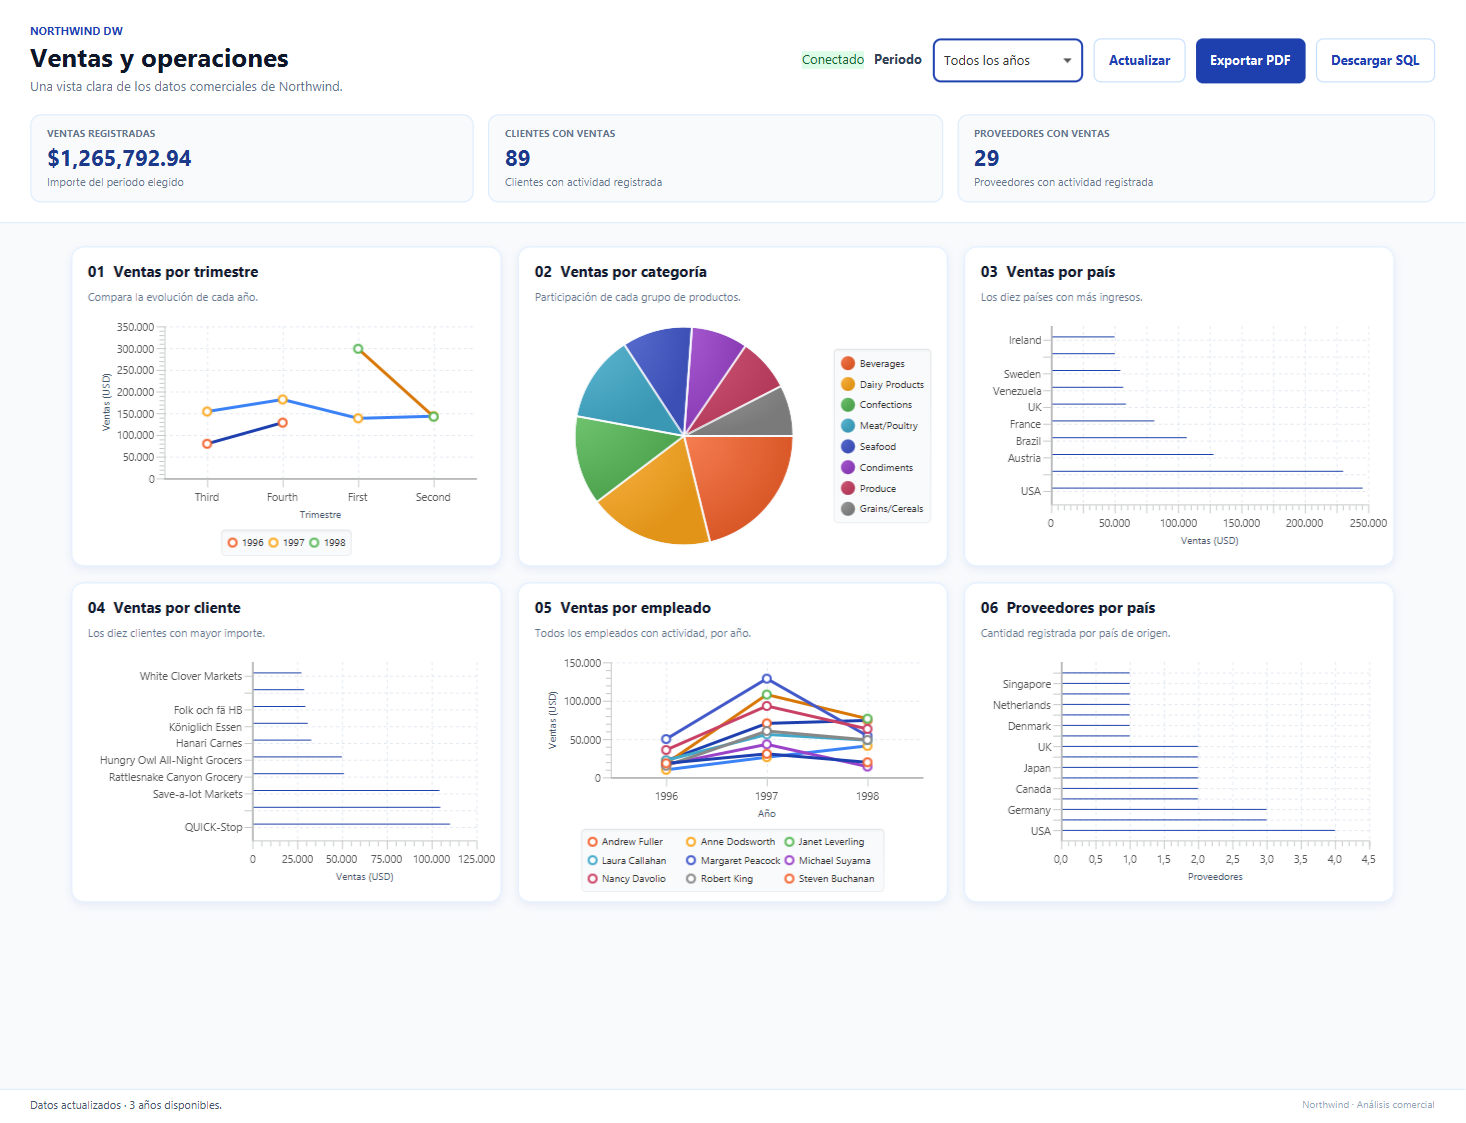
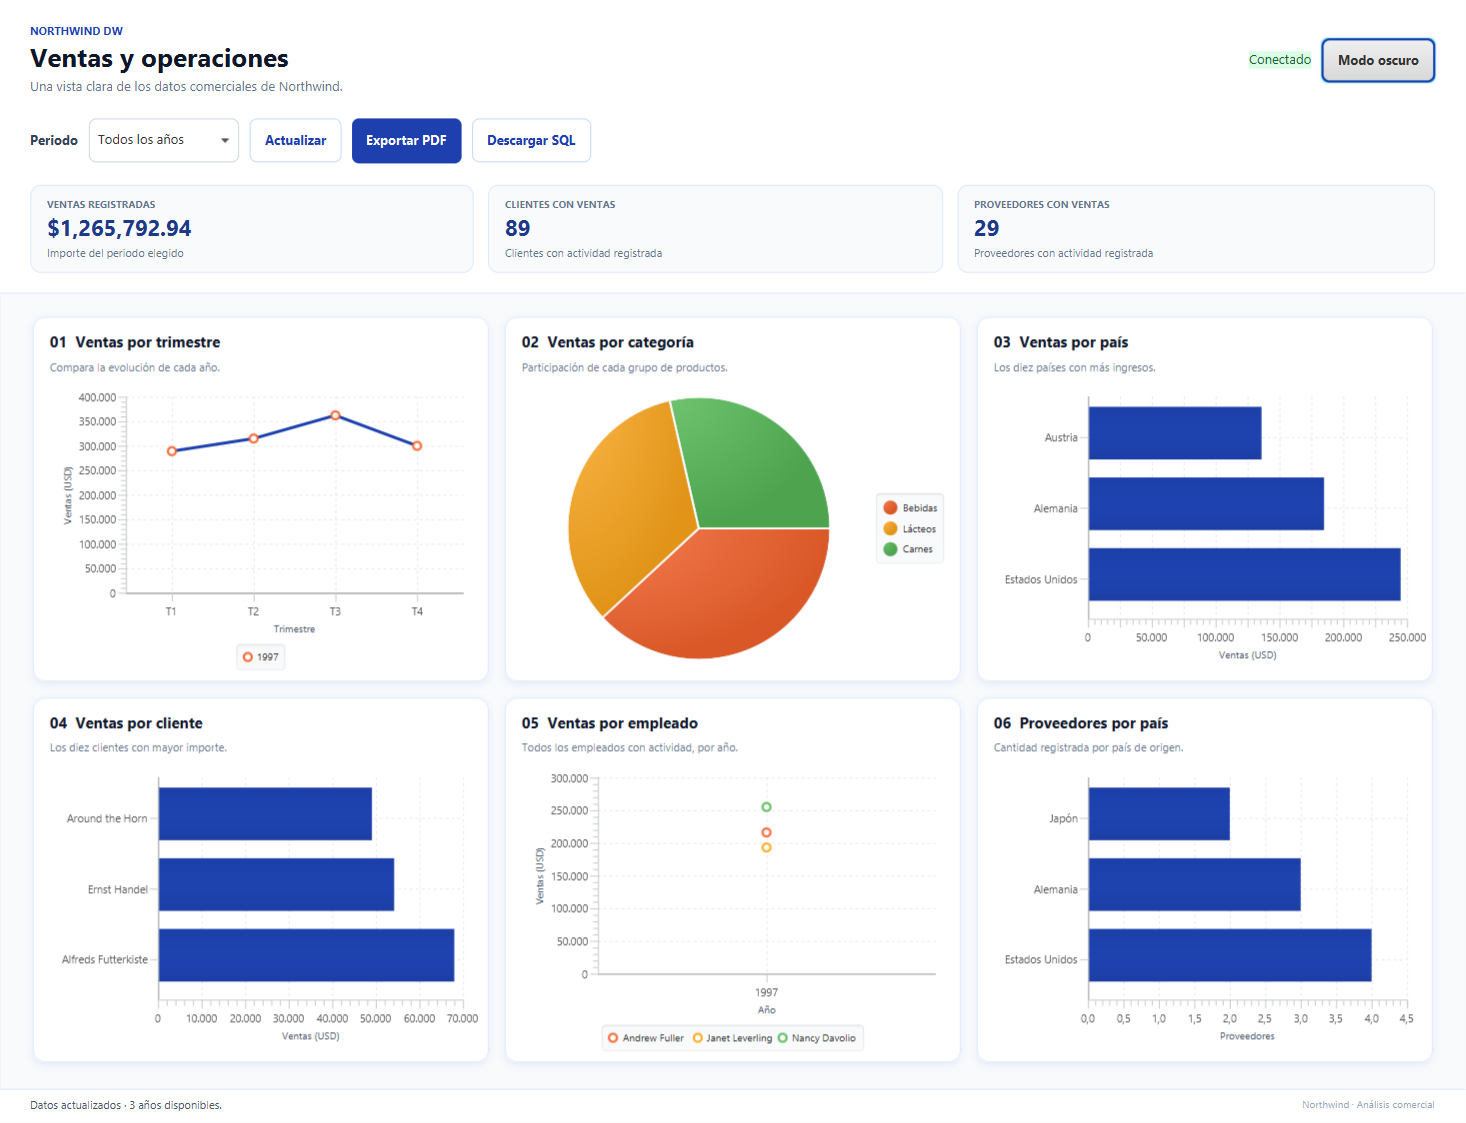
docs: show dashboard themes and responsive behavior

diff --git a/docs/superpowers/plans/2026-10-24-dashboard-themes-responsive.md b/docs/superpowers/plans/2026-10-24-dashboard-themes-responsive.md
@@ -41,7 +41,7 @@
 - [x] Write tests for default/invalid theme fallback, persistence, and toggling; run them to confirm RED.
 - [x] Write tests for 3, 2, and 1-column breakpoints and proportional chart height; run them to confirm RED.
 - [x] Implement the helpers with dark as the first-run theme and deterministic breakpoints; run both focused test classes to confirm GREEN.
-- [ ] Commit as `feat: add theme preferences and responsive layout rules`.
+- [x] Commit as `feat: add theme preferences and responsive layout rules`.
 
 ### Task 2: Apply themes to the dashboard
 
@@ -54,7 +54,7 @@
 - [x] Preserve the selection in local preferences when the user changes it.
 - [x] Match original indigo colors in dark mode and keep the light palette coherent; style chart plots, axes, legends, fields, focus, and hover states.
 - [x] Reflow header controls without changing their actions; load FXML successfully.
-- [ ] Commit as `feat: add light and dark dashboard themes`.
+- [x] Commit as `feat: add light and dark dashboard themes`.
 
 ### Task 3: Scale cards and window proportions
 
@@ -66,16 +66,18 @@
 - [x] Bind report card and chart dimensions to `ReportGridLayout.calculate` when the scroll viewport changes width.
 - [x] Remove fixed card widths and adjust window size/minimums to available display bounds.
 - [x] Verify card positions and widths after resizing to wide, medium, and narrow stage sizes.
-- [ ] Commit as `feat: scale dashboard cards with the window`.
+- [x] Commit as `feat: scale dashboard cards with the window`.
 
 ### Task 4: Visual review and final verification
 
 **Files:**
 - Modify: `src/test/java/com/northwinddw/ui/DashboardScreenshotTest.java`
+- Create: `src/main/java/com/northwinddw/data/DashboardDataSource.java`
+- Modify: `src/main/java/com/northwinddw/data/AnalyticsRepository.java`, `src/main/java/com/northwinddw/ui/DashboardController.java`
 - Create/modify: `docs/screenshots/dashboard.png`, `docs/screenshots/dashboard-dark.png`, `docs/screenshots/connection-error.png`
 - Modify: `README.md`, `docs/engineering-review.md`
 
-- [ ] Capture both connected themes and a failed-connection state; inspect the resulting images.
-- [ ] Run `scripts/verify.ps1` after the temporary PostgreSQL fixture is cleaned up.
-- [ ] Confirm the working tree contains no `.env` or temporary database and stays on `main`.
-- [ ] Commit as `docs: show dashboard themes and responsive behavior`.
+- [x] Capture both themes using a deterministic data sample plus a failed-connection state; inspect the resulting images.
+- [x] Run `scripts/verify.ps1` after the temporary PostgreSQL fixture is cleaned up.
+- [x] Confirm the working tree contains no `.env` or temporary database and stays on `main`.
+- [x] Commit as `docs: show dashboard themes and responsive behavior`.

diff --git a/docs/engineering-review.md b/docs/engineering-review.md
@@ -42,3 +42,11 @@ El archivo de preparación SQL se importó en una base temporal PostgreSQL 18. L
 Se abrió la aplicación con la base y también sin conexión: en el segundo caso la ventana permaneció disponible y mostró instrucciones de recuperación. Se generaron y revisaron visualmente las dos capturas de `docs/screenshots/`. Las pruebas de exportación generaron un PDF legible y comprobaron la copia del SQL portable. El comando `scripts/verify.ps1 -WithDatabaseIntegration` ejecutó las comprobaciones estáticas, 12 pruebas (11 aprobadas y la captura automática omitida en ese modo) y el empaquetado Maven sin fallos. La prueba de capturas se ejecutó por separado y produjo ambos PNG.
 
 La base, el servidor y las carpetas temporales de verificación se eliminaron al cerrar las pruebas. El archivo `.env` usado para ellas también se borró; `.env.example` solo incluye valores ficticios y las reglas de Git siguen excluyendo `.env`.
+
+## Apariencia y tamaños de ventana
+
+La revisión de diseño recuperó el fondo índigo y las tarjetas oscuras del proyecto original. El usuario puede cambiar a una paleta clara y la aplicación conserva su elección al reiniciar; si todavía no hay una preferencia, abre en el tema oscuro. El encabezado reorganiza sus controles cuando falta espacio y las seis tarjetas adoptan una, dos o tres columnas según el ancho, con gráficos cuya altura sigue la proporción de la tarjeta. La ventana inicial también se ajusta al espacio disponible en la pantalla.
+
+Las capturas actuales de los dos temas se generaron con datos de ejemplo para que siempre sean reproducibles. Una fuente de datos intercambiable permite probar la vista sin alterar la consulta PostgreSQL real. Las pruebas visuales comprobaron los controles, los gráficos y la preferencia del tema; la prueba de redimensionado verificó las tres anchuras previstas.
+
+En esta revisión se ejecutó `scripts/verify.ps1`: 21 pruebas, cero fallos y dos omisiones previstas (la integración opcional con PostgreSQL y la captura automática, que se ejecutó por separado). La prueba visual produjo las tres capturas y pasó. JavaFX imprime una aserción al cerrar el motor gráfico, después de que Maven registra la prueba como aprobada. La integración PostgreSQL ya se había ejecutado sobre los datos de Northwind en la verificación de la reconstrucción; no se repitió aquí porque este entorno bloquea las conexiones locales entre procesos.

diff --git a/README.md b/README.md
@@ -4,7 +4,13 @@ Northwind DW reúne los datos comerciales de ejemplo de Northwind en una ventana
 
 ## Así se ve
 
-![Tablero de ventas conectado a la base Northwind](docs/screenshots/dashboard.png)
+Al abrirse, la aplicación usa el tema oscuro, con la paleta del proyecto original. Puedes cambiar a modo claro desde la esquina superior derecha; tu elección se conserva para la próxima vez. Las tarjetas se acomodan en tres, dos o una columna según el ancho de la ventana.
+
+Las siguientes imágenes muestran ambos temas con valores de ejemplo:
+
+![Tablero de ventas en modo oscuro](docs/screenshots/dashboard-dark.png)
+
+![Tablero de ventas en modo claro](docs/screenshots/dashboard.png)
 
 Si la aplicación no encuentra PostgreSQL, informa qué revisar y mantiene la ventana abierta:
 
@@ -19,6 +25,8 @@ Si la aplicación no encuentra PostgreSQL, informa qué revisar y mantiene la ve
 - Ventas de cada empleado por año.
 - Cantidad de proveedores por país.
 - Filtro por año, resumen de ventas y descarga de informes en PDF o del archivo para preparar la base.
+- Modo claro y oscuro, con la elección guardada para el próximo inicio.
+- Diseño que reorganiza las gráficas al cambiar el tamaño de la ventana.
 
 ## Preparar la aplicación
 
